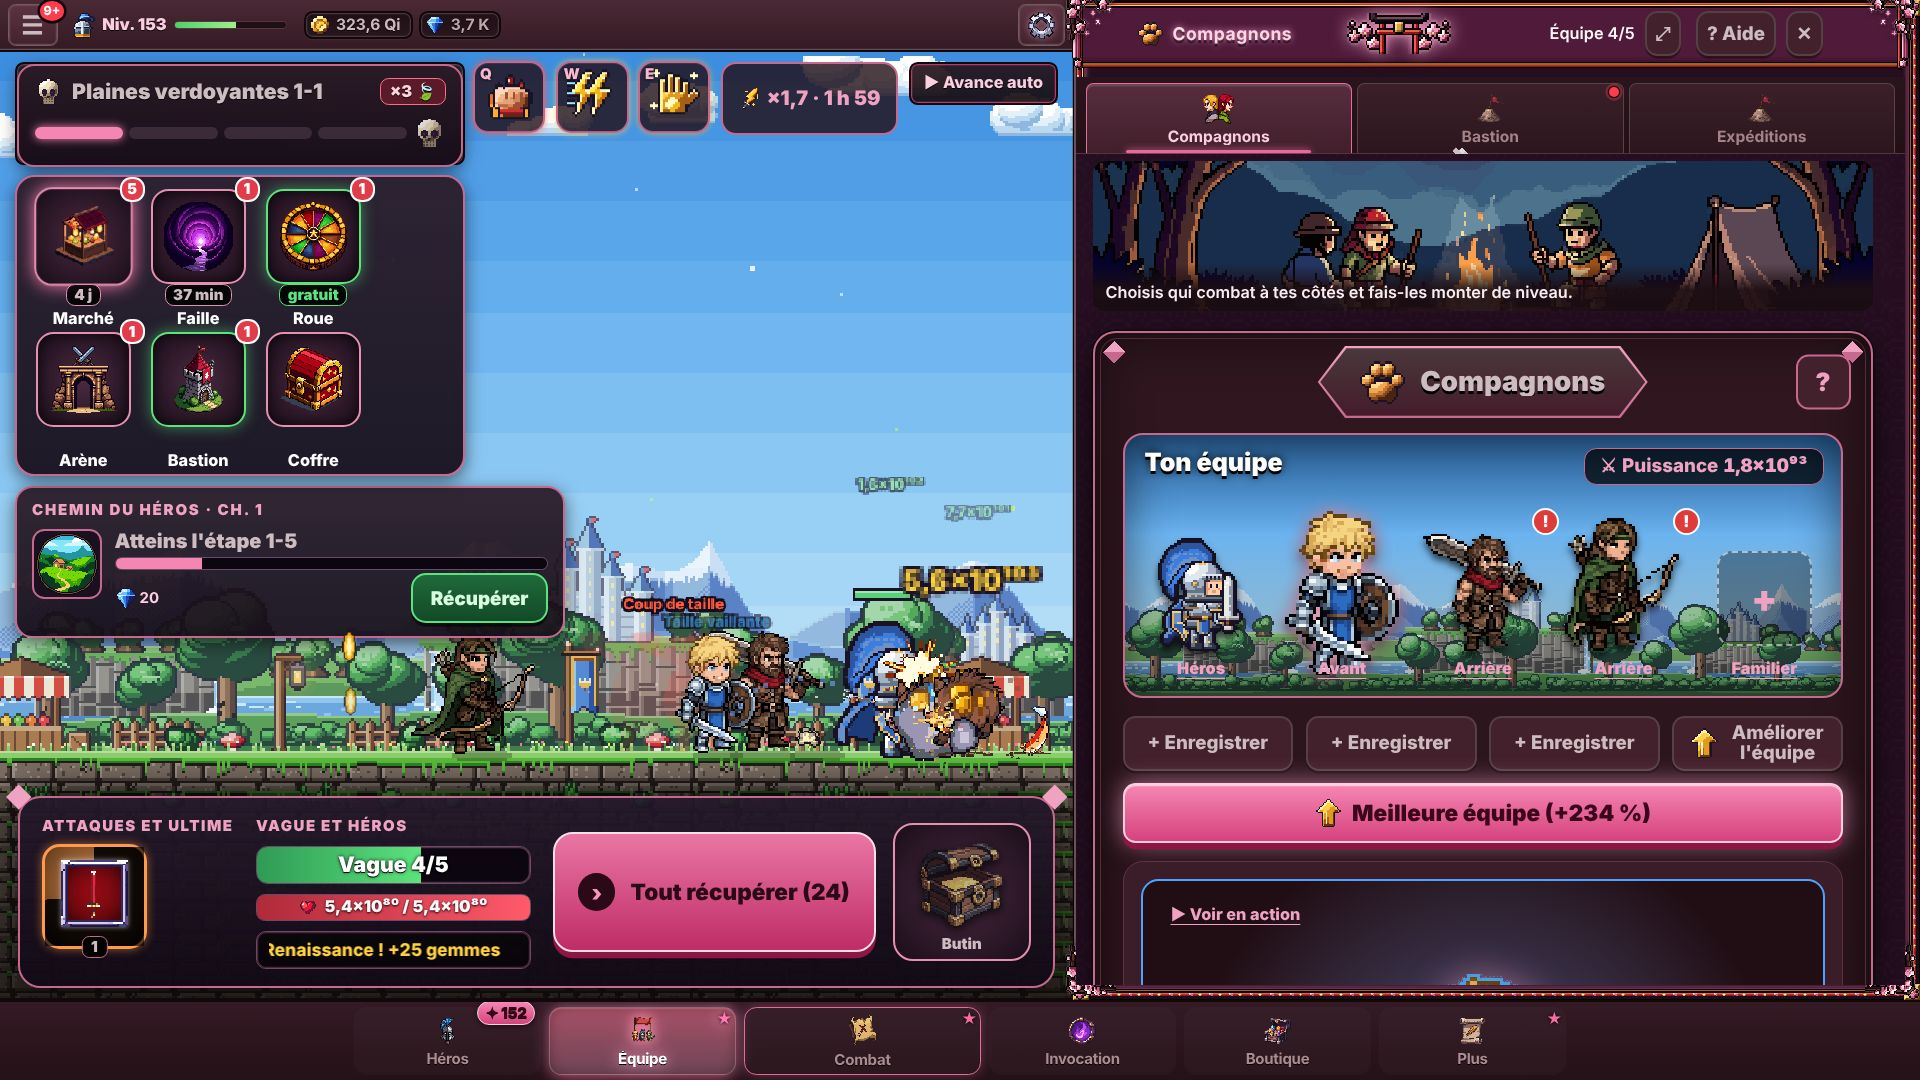
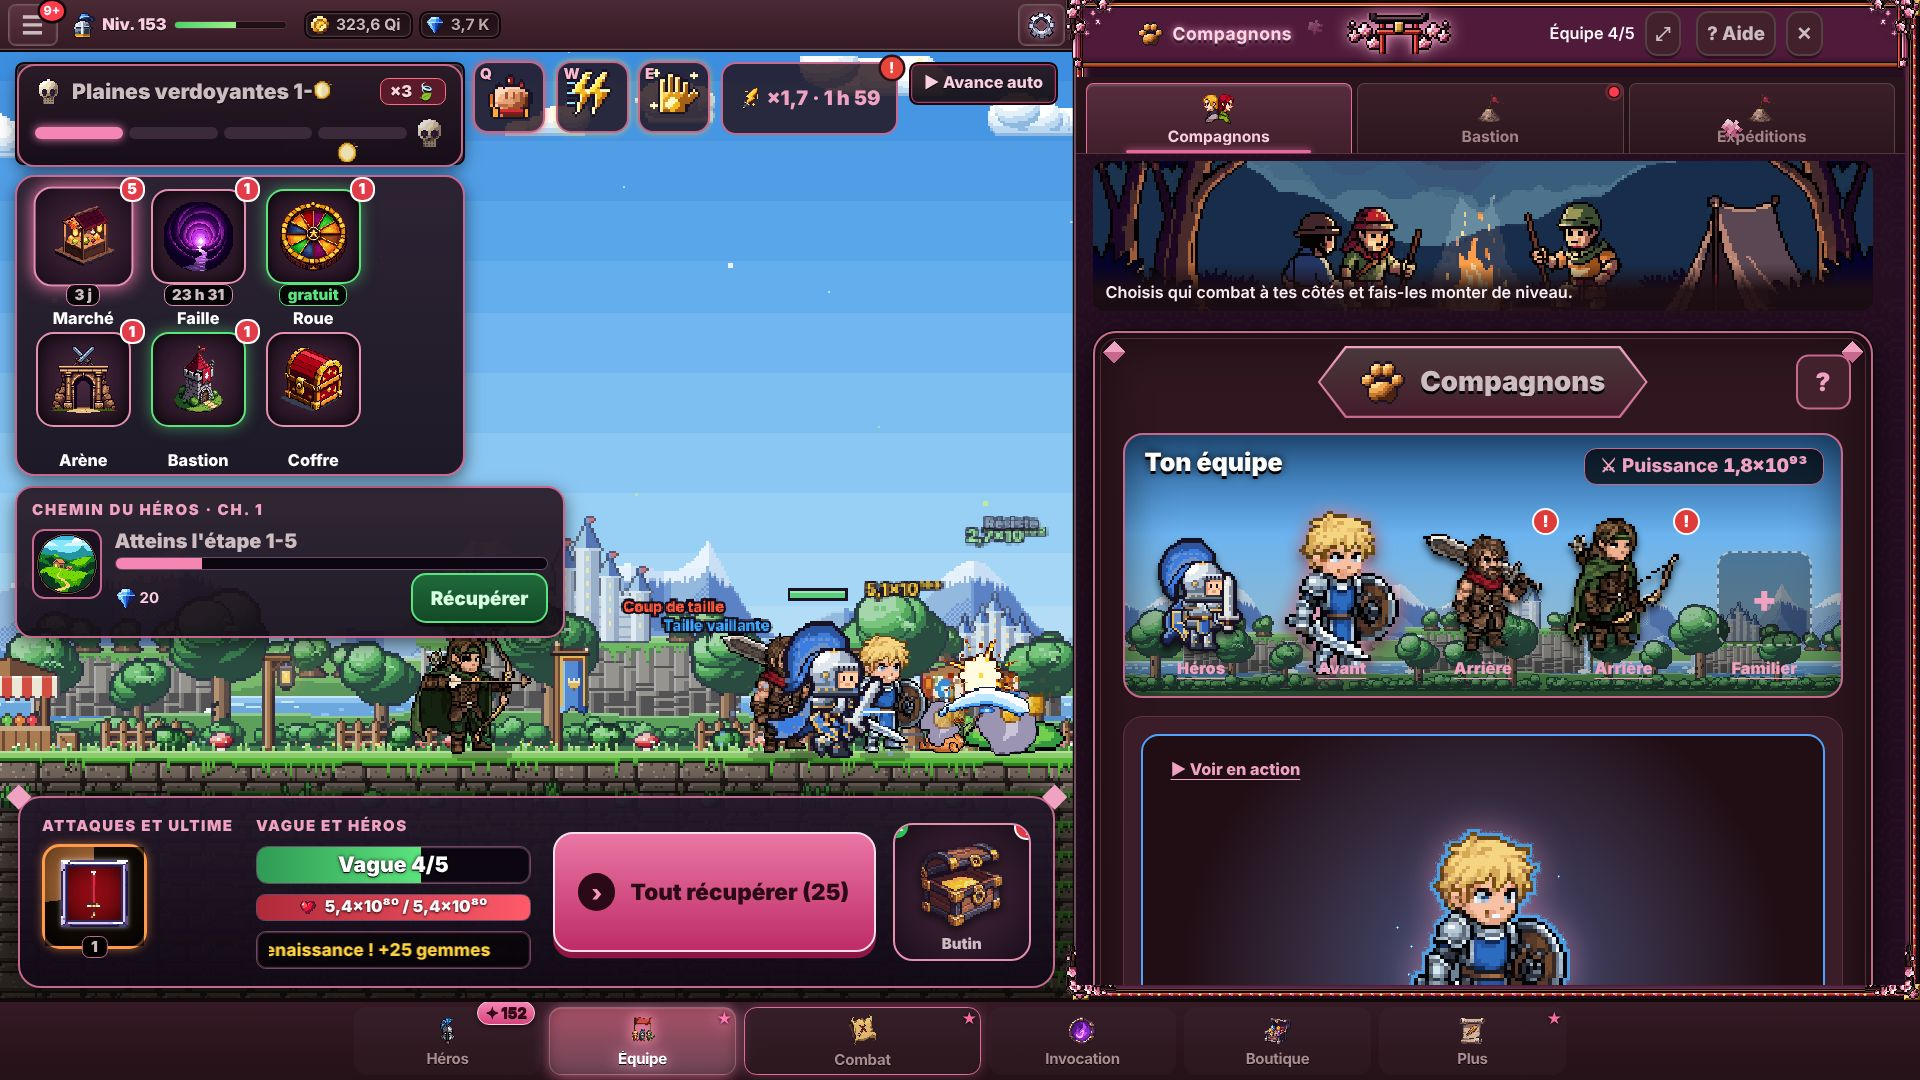
v10.17.1 : nom de la Prime sur deux lignes ; captures après (fin et partie neuve)
Claude-Session: https://claude.ai/code/session_0134j7sWC6n1vRKCjA4LHtyt

diff --git a/src/ui/finitions10171.css b/src/ui/finitions10171.css
@@ -80,3 +80,6 @@
 /* Compagnons (PC) : la rangée « Meilleure équipe » (bouton doré) passe au pied de la colonne principale (.dc-main est en
    display: contents : ses enfants sont rangés par order dans la grille) */
 #app:not(.m-phone) #panel .dc-frame .dc-presets { order: 7; margin-top: 6px; }
+
+/* Prime du Héraut (scène) : nom long sur deux lignes plutôt que coupé (contrôle 14, textes en/ko) */
+#app#app #hq-bounty .hb-name { white-space: normal; overflow: visible; text-overflow: clip; overflow-wrap: anywhere; line-height: 1.1; }
